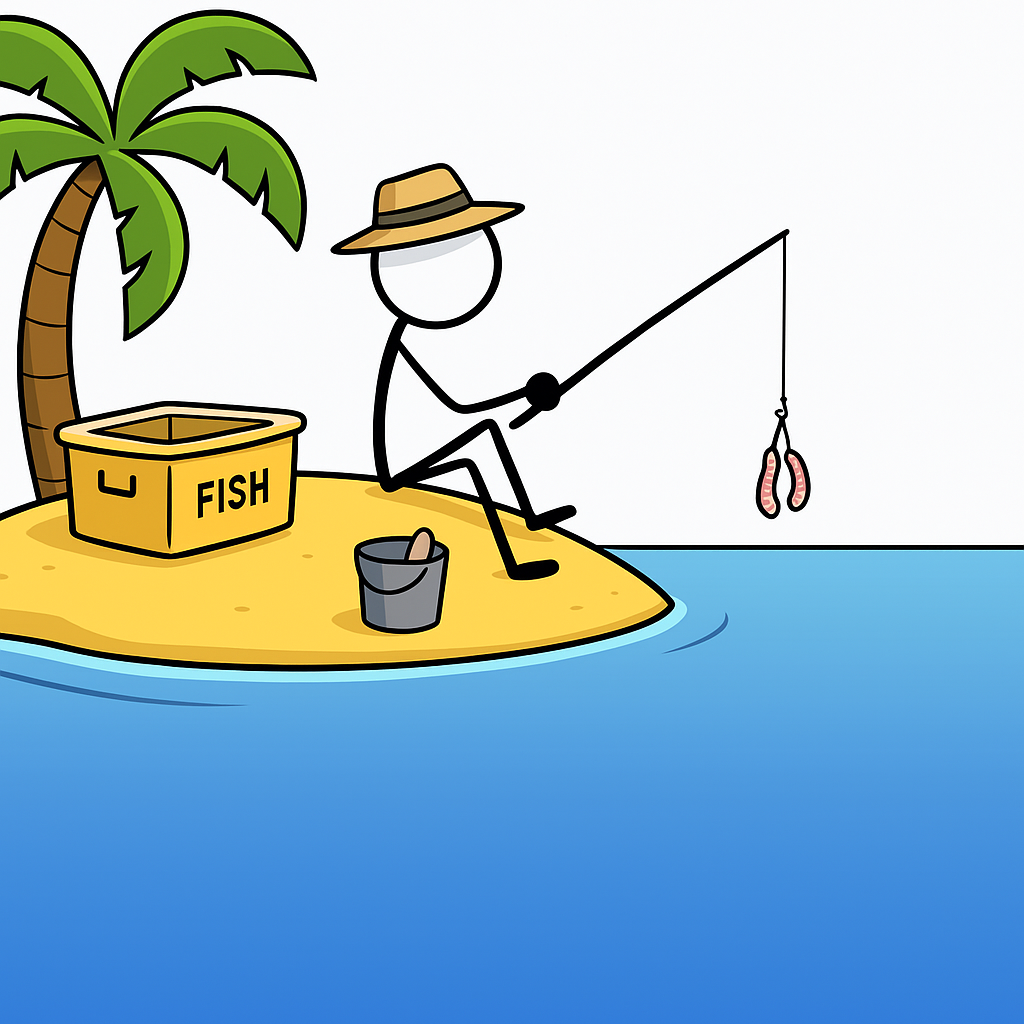
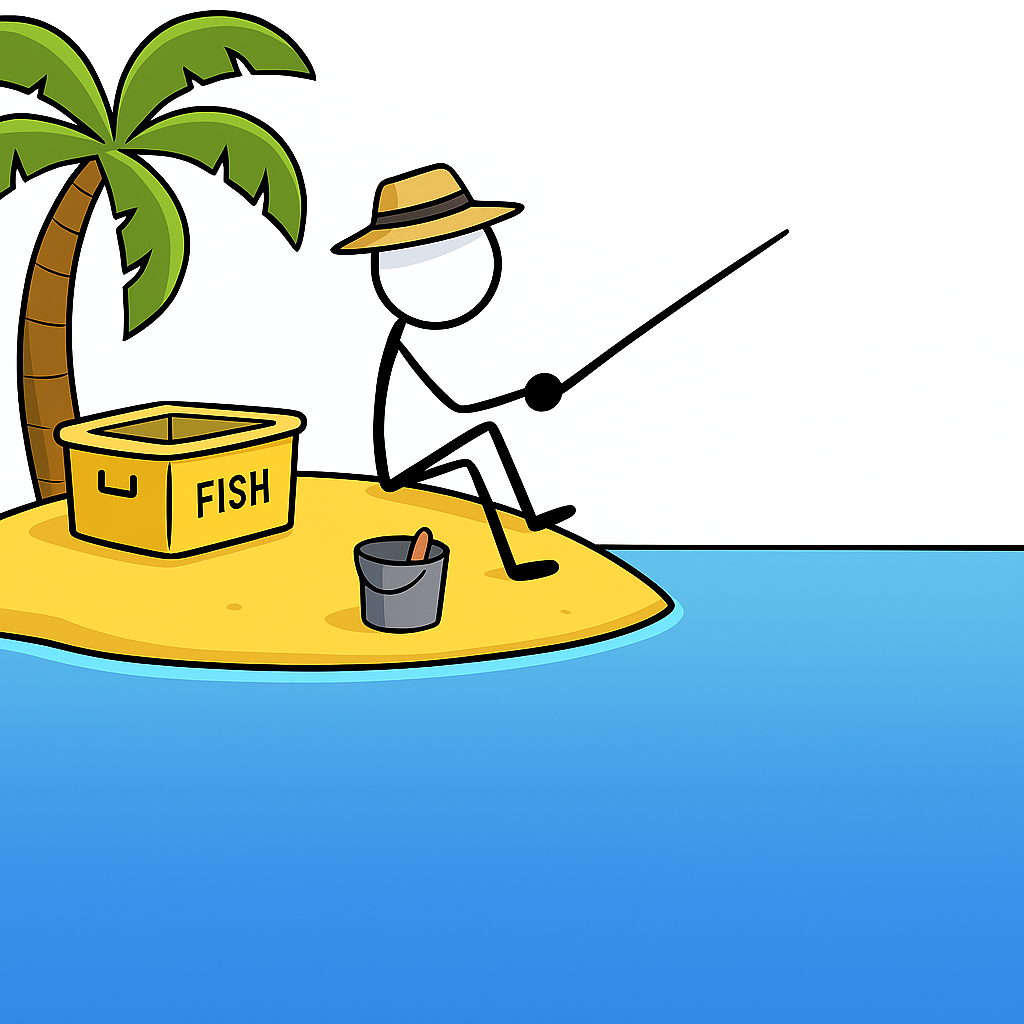
hook line and sinkher

diff --git a/frontend/src/routes/quiz.js b/frontend/src/routes/quiz.js
@@ -1,27 +1,65 @@
-import React, { useState, useEffect } from 'react'
+import React, { useState, useEffect, useRef } from 'react'
 import '../styles/quiz.css'
 import fisherman from '../styles/images/fishing.png'
 import fish from '../styles/images/fish1.png'
 import FishHook from '../styles/images/fishHook.png'
 
 export default function Quiz() {
+    const fishermanRef = useRef(null);
+    const [anchor, setAnchor] = useState({ x: 100, y: 100 });
+    
+    // added function to compute anchor from fisherman image
+    const updateAnchorFromImage = () => {
+        const el = fishermanRef.current;
+        if (!el) return;
+        const rect = el.getBoundingClientRect();
+
+        // pixel coordinates in the source image where you want the anchor (adjust as needed)
+        const pixelAnchor = { x: 787, y: 233 };
+
+        // use natural image size if available to map pixels to rendered size
+        const naturalW = el.naturalWidth || rect.width;
+        const naturalH = el.naturalHeight || rect.height;
+
+        const anchorX = rect.left + (pixelAnchor.x / naturalW) * rect.width;
+        const anchorY = rect.top + (pixelAnchor.y / naturalH) * rect.height;
+
+        setAnchor({ 
+            x: Math.round(anchorX), 
+            y: Math.round(anchorY) 
+        });
+    };
+
+    useEffect(() => {
+        updateAnchorFromImage()
+        window.addEventListener('resize', updateAnchorFromImage)
+        return () => window.removeEventListener('resize', updateAnchorFromImage)
+
+    }, [])
+
     return(
         <div className='quiz-body'>
             <div className='quiz-topbar' />
             {/* <div className='water-background' /> */}
             <div className='d-flex flex-row justify-content-between'>
-                <img src={fisherman} alt="fisherman" className='fisherman-image'/>
+                <img 
+                    src={fisherman}
+                    ref={fishermanRef} 
+                    alt="fisherman" 
+                    className='fisherman-image'
+                    onLoad={updateAnchorFromImage}
+                />
             </div>
             <img src={fish} alt="fish" className='fisherman-image'/>
             {/* backgrund image */}
             {/* fish images */}
             {/* score box */}
-            <CursorFollowImage/>
+            <CursorFollowImage anchor={anchor} />
         </div>
     )
 }
 
-function CursorFollowImage() {
+function CursorFollowImage({ anchor }) {
     const [mousePosition, setMousePosition] = useState({ x: 0, y: 0 });
 
     useEffect(() => {
@@ -37,11 +75,19 @@ function CursorFollowImage() {
 
     const followerStyle = {
         position: 'fixed',
-        left: mousePosition.x,
         top: mousePosition.y,
+        left: mousePosition.x,
+    }
+
+
+    const svgStyle = {
+        position: 'fixed',
+        top: 0,
+        left: 0,
+        width: '100vw',
+        height: '100vh',
         pointerEvents: 'none',
-        transform: 'translate(-50%, -50%)',
-    };
+    }
 
     return (
         <div className="quiz-container">
@@ -51,6 +97,16 @@ function CursorFollowImage() {
                 style={followerStyle}
                 className="cursor-follower"
             />
+            <svg style={svgStyle}>
+                <line
+                    x1={mousePosition.x}
+                    y1={mousePosition.y}
+                    x2={anchor.x}
+                    y2={anchor.y}
+                    stroke="#000"
+                    strokeWidth="1"
+                />
+            </svg>
         </div>
     );
 }

diff --git a/frontend/src/styles/quiz.css b/frontend/src/styles/quiz.css
@@ -9,10 +9,8 @@
     justify-content: center;
     background-color: white;
 }
-
-/* Moved static follower styles here */
-.cursor-follower {
-    position: fixed;
+.cursor-follower { /*the fish hook image that follows the cursor */
+    transform: translate(-60%, -8%);    
     width: 40px;
     height: 40px;
 }
